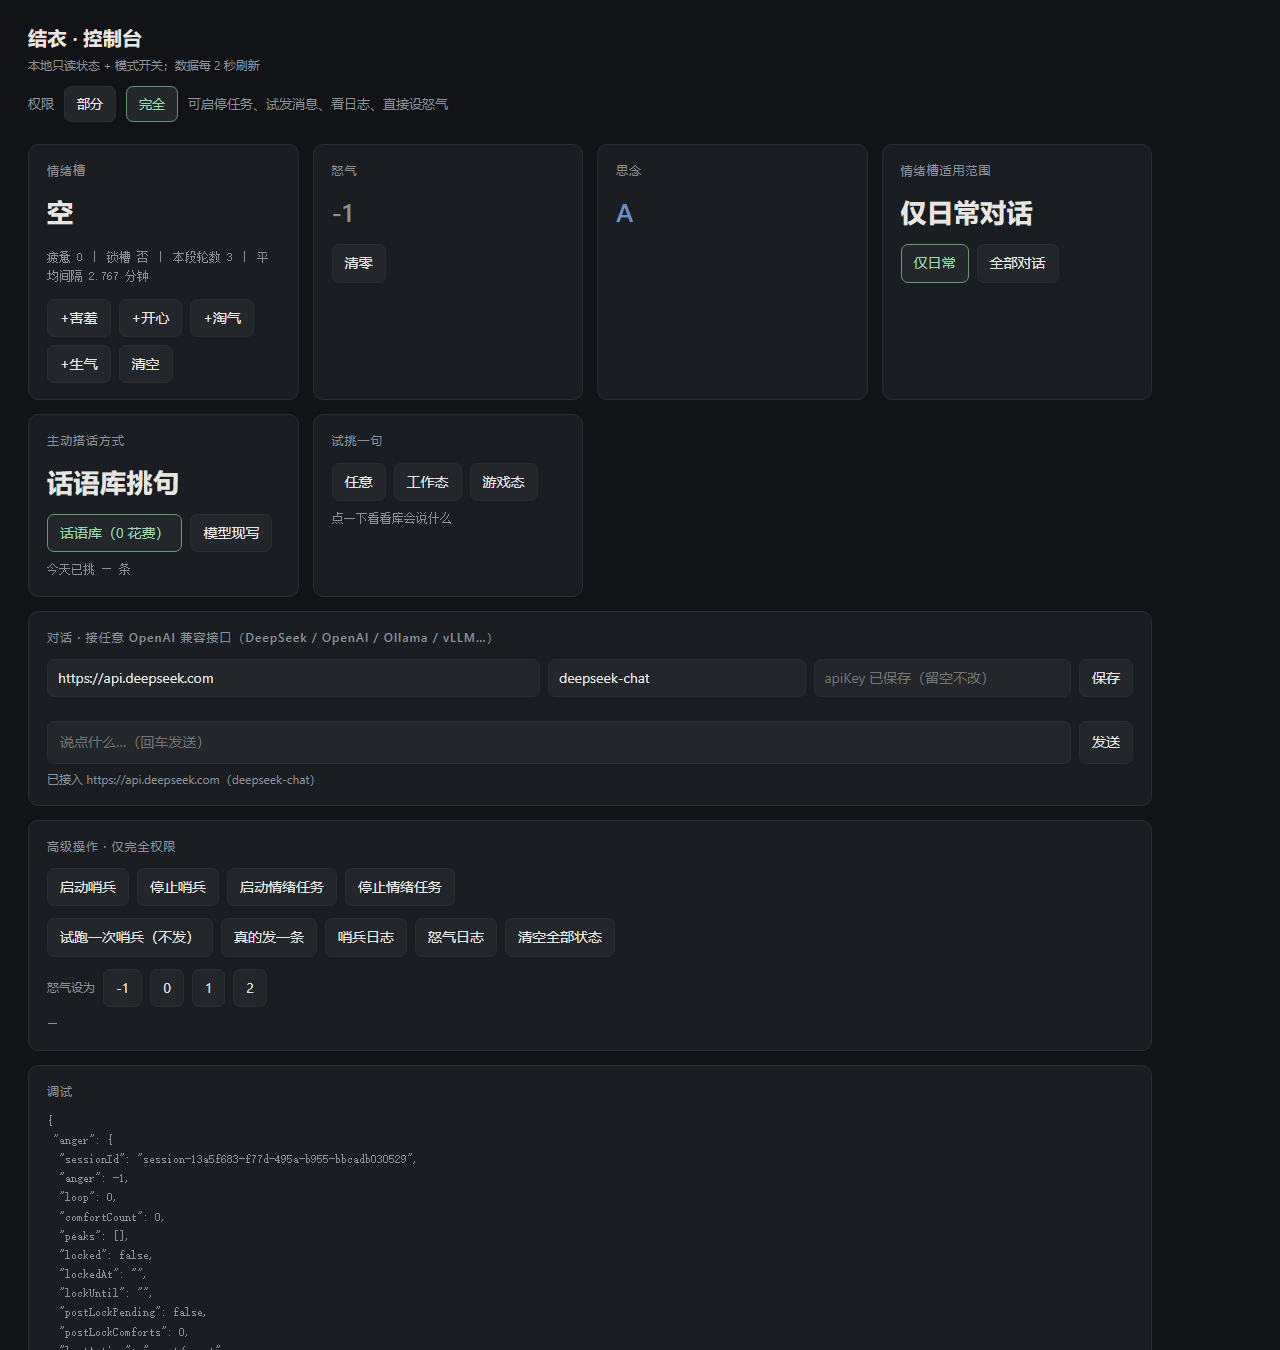
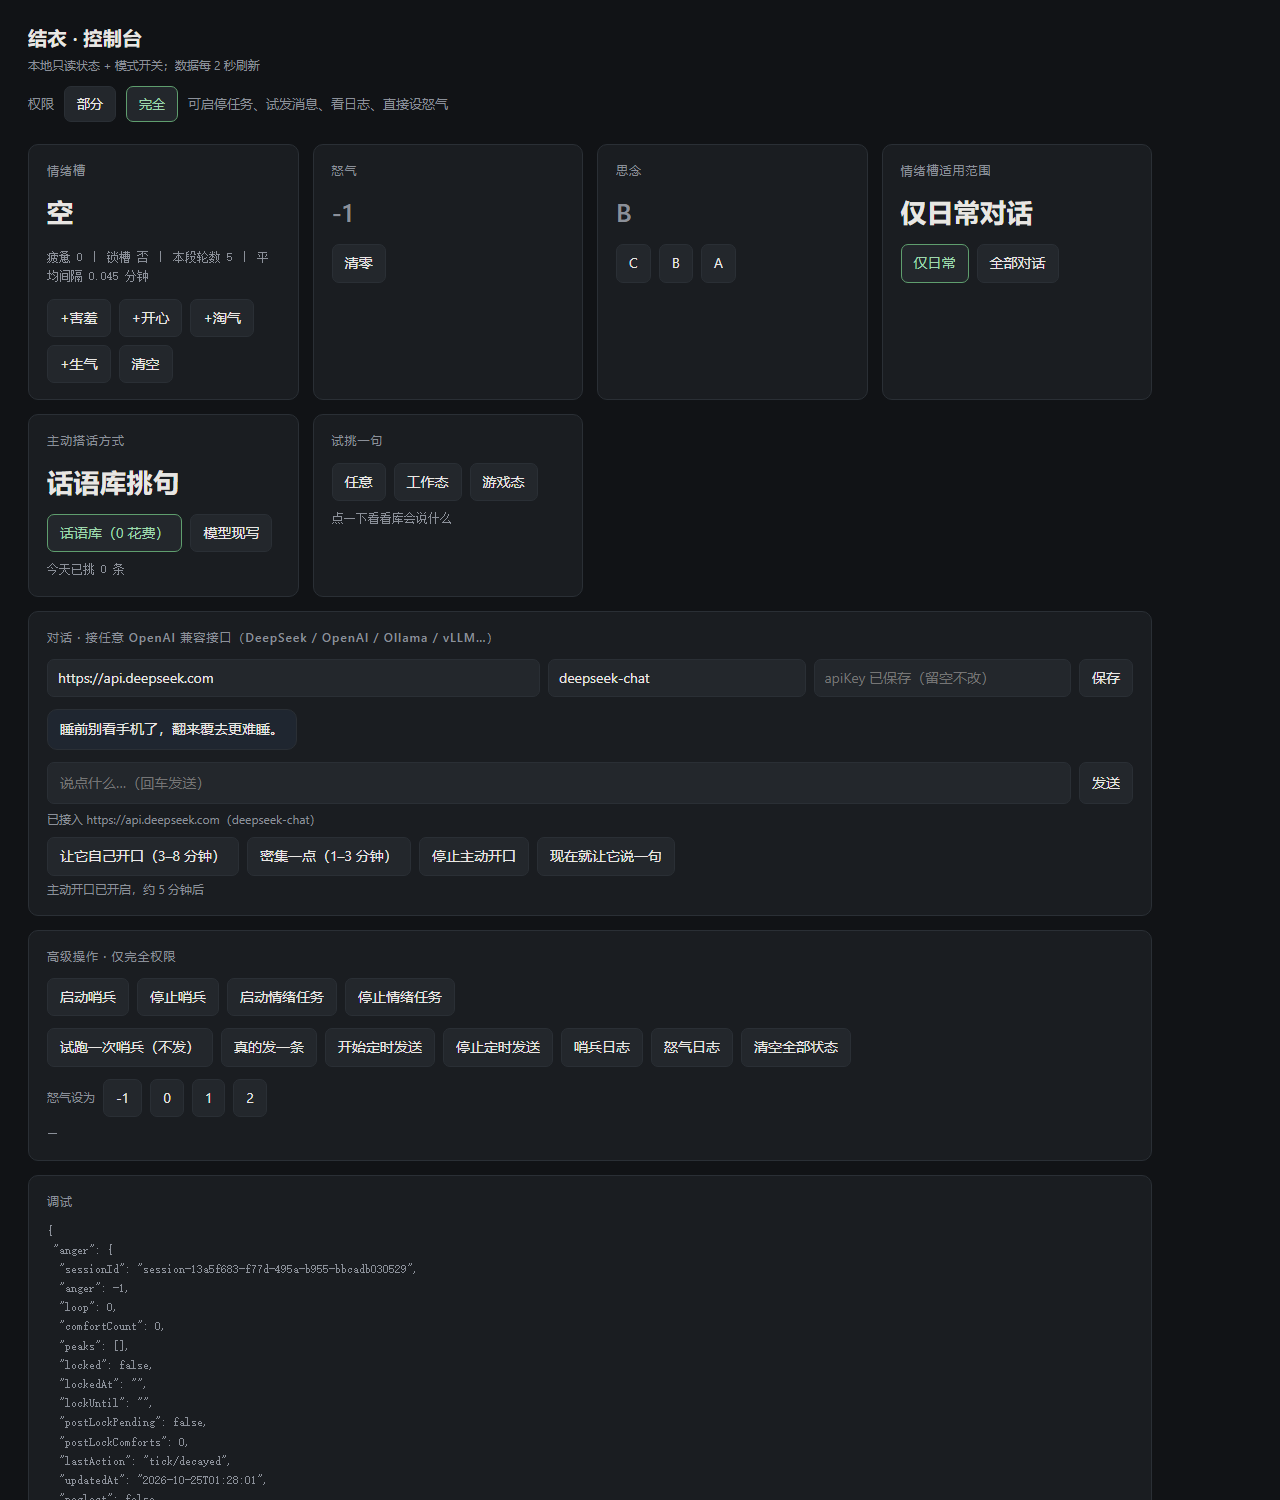
控制台内可主动开口：定时往对话里塞日常话语，支持密集/稀疏两档与立即触发

diff --git a/app/public/index.html b/app/public/index.html
@@ -114,6 +114,13 @@
       <button onclick="sendChat()">发送</button>
     </div>
     <div class="dim" id="chat-hint" style="font-size:12px;margin-top:6px">未配置接口时，只演示状态机，不参与对话。</div>
+    <div class="row" style="margin-top:8px">
+      <button onclick="proactiveStart(3,8)">让它自己开口（3–8 分钟）</button>
+      <button onclick="proactiveStart(1,3)">密集一点（1–3 分钟）</button>
+      <button onclick="proactiveStop()">停止主动开口</button>
+      <button onclick="proactiveNow()">现在就让它说一句</button>
+    </div>
+    <div class="dim" id="proactive-hint" style="font-size:12px;margin-top:4px">未开启：只在你说完话后回应</div>
   </section>
 
   <section class="card full" id="adv-card" style="display:none">
@@ -315,11 +322,43 @@ function resetAll() { if (confirm('清空怒气、思念、情绪槽？')) adv('
 
 loadPanelMode()
 loadCfg()
+async function proactiveStart(min, max) {
+  await fetch('/api/proactive/start', { method: 'POST', headers: { 'Content-Type': 'application/json' }, body: JSON.stringify({ min, max }) })
+  $('proactive-hint').textContent = `已开启：大约每 ${min}–${max} 分钟自己说一句`
+}
+async function proactiveStop() {
+  await fetch('/api/proactive/stop', { method: 'POST' })
+  $('proactive-hint').textContent = '已停止：只在你说完话后回应'
+}
+async function proactiveNow() {
+  await fetch('/api/proactive/now', { method: 'POST' })
+  await pullProactive()
+}
+let lastProactiveId = 0
+async function pullProactive() {
+  try {
+    const r = await (await fetch('/api/proactive/pending?after=' + lastProactiveId)).json()
+    for (const it of r.items || []) {
+      lastProactiveId = Math.max(lastProactiveId, it.id)
+      $('chat-log').appendChild(bubble('它', it.text))
+      history.push({ role: 'assistant', content: it.text })
+    }
+    if ((r.items || []).length) $('chat-log').scrollTop = $('chat-log').scrollHeight
+    if (r.on && r.nextAt) {
+      const mins = Math.max(0, Math.round((r.nextAt - Date.now()) / 60000))
+      $('proactive-hint').textContent = `主动开口已开启，约 ${mins} 分钟后`
+    }
+  } catch { }
+}
+setInterval(pullProactive, 5000)
+pullProactive()
 refresh()
 setInterval(refresh, 2000)
 </script>
 </body>
 </html>
+
+
 
 
 
